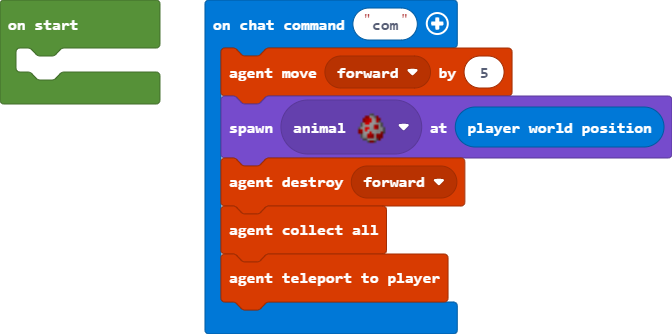
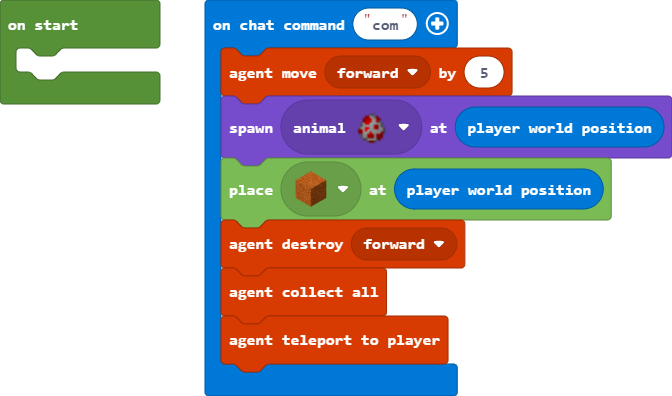
add sand

Changed region(s): [[0.3125, 0.0, 1.0, 0.9581], [0.0, 0.1198, 0.25, 0.3293], [0.0, 0.0299, 0.125, 0.0898]]

diff --git a/main.ts b/main.ts
@@ -1,6 +1,7 @@
 player.onChat("com", function () {
     agent.move(FORWARD, 5)
     mobs.spawn(CHICKEN, player.position())
+    blocks.place(RED_SAND, player.position())
     agent.destroy(FORWARD)
     agent.collectAll()
     agent.teleportToPlayer()
